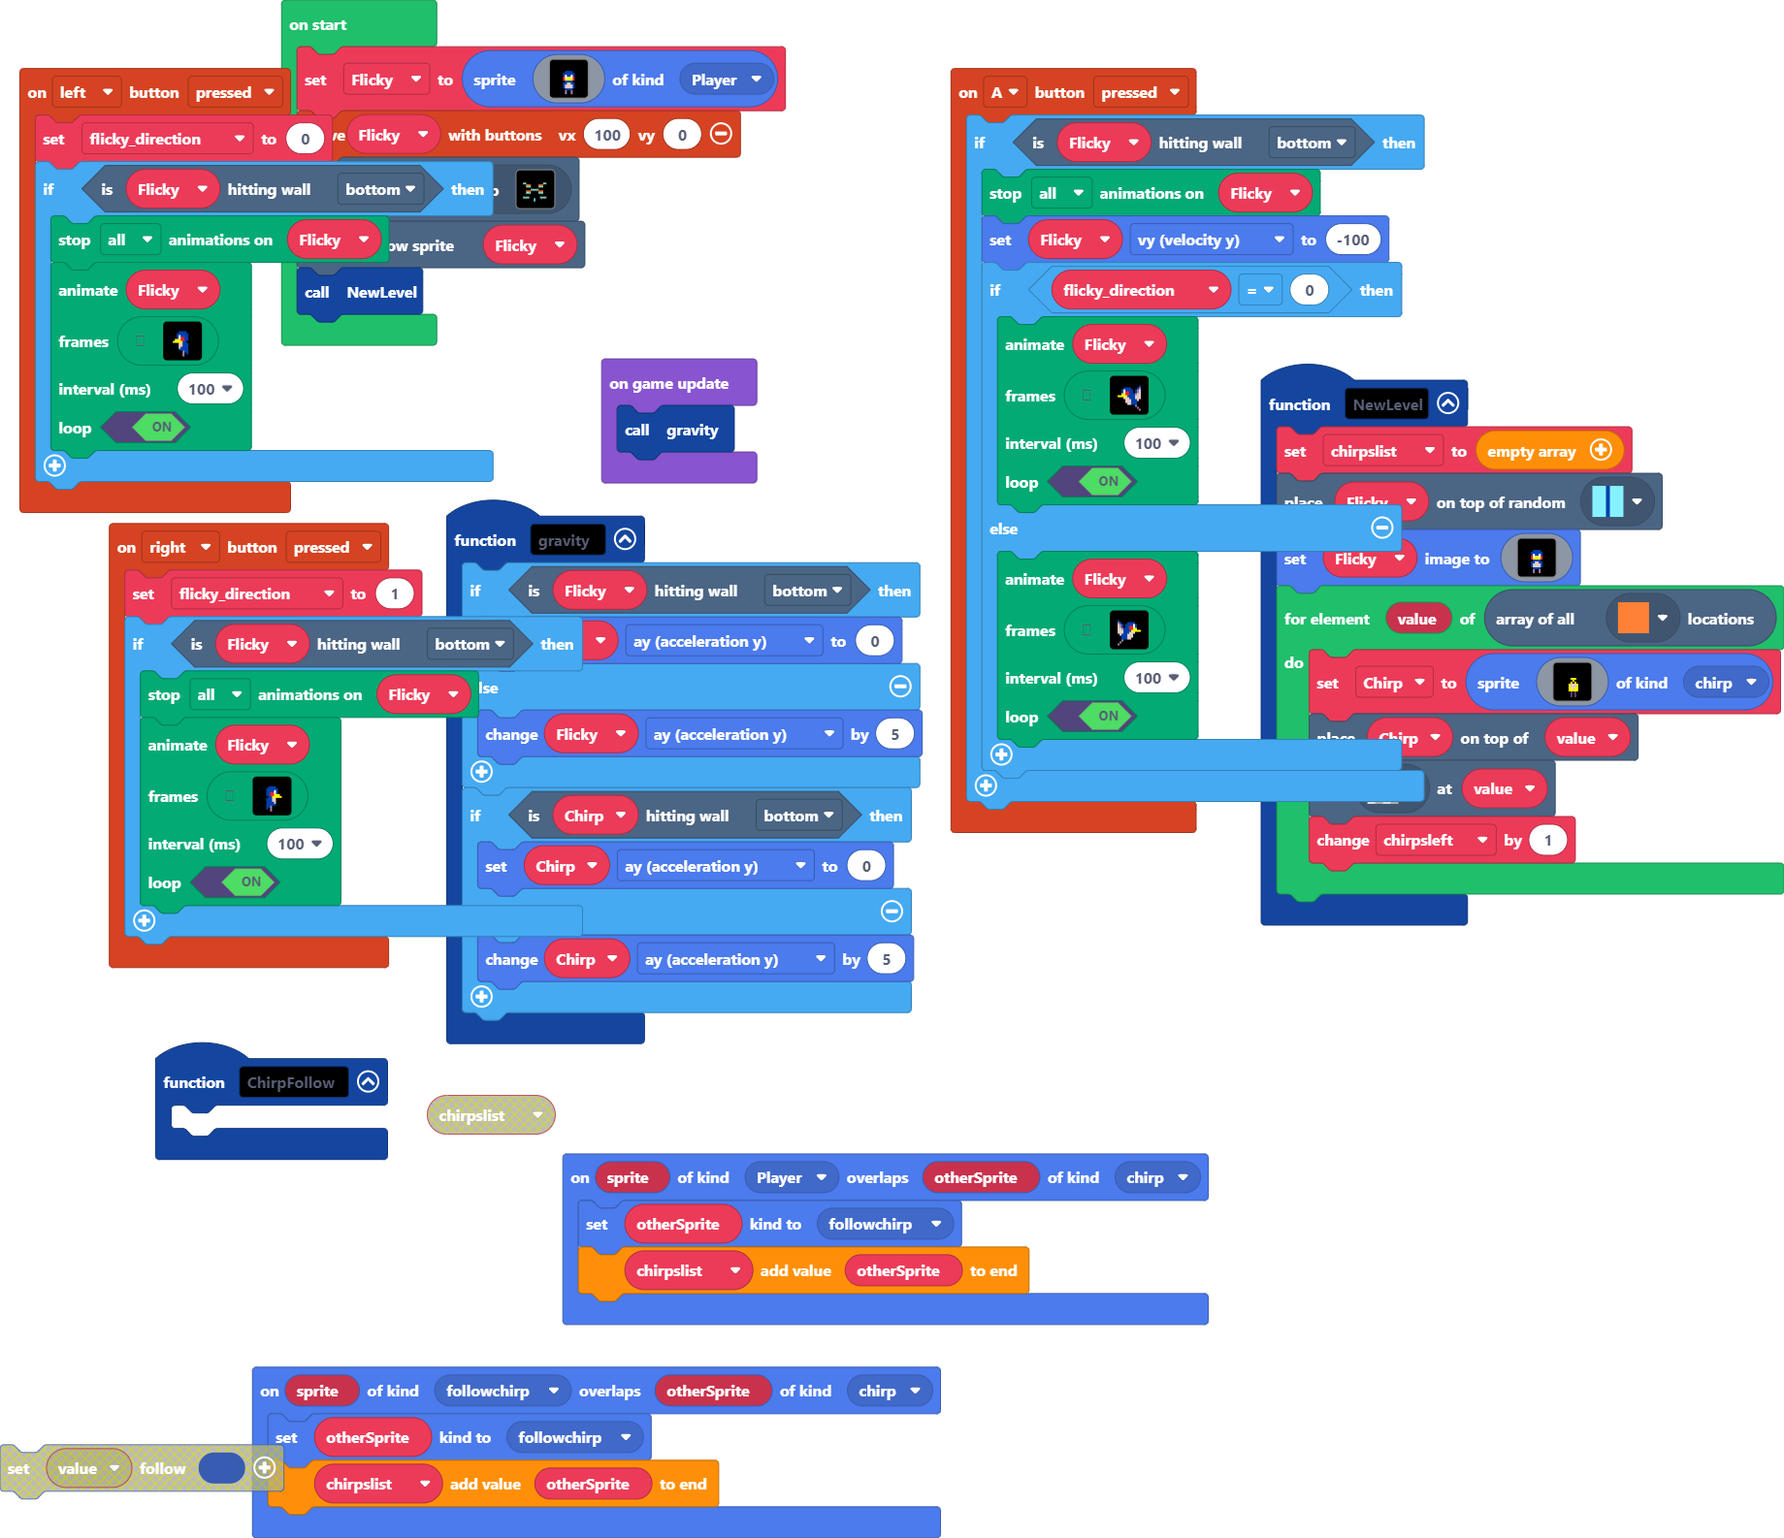
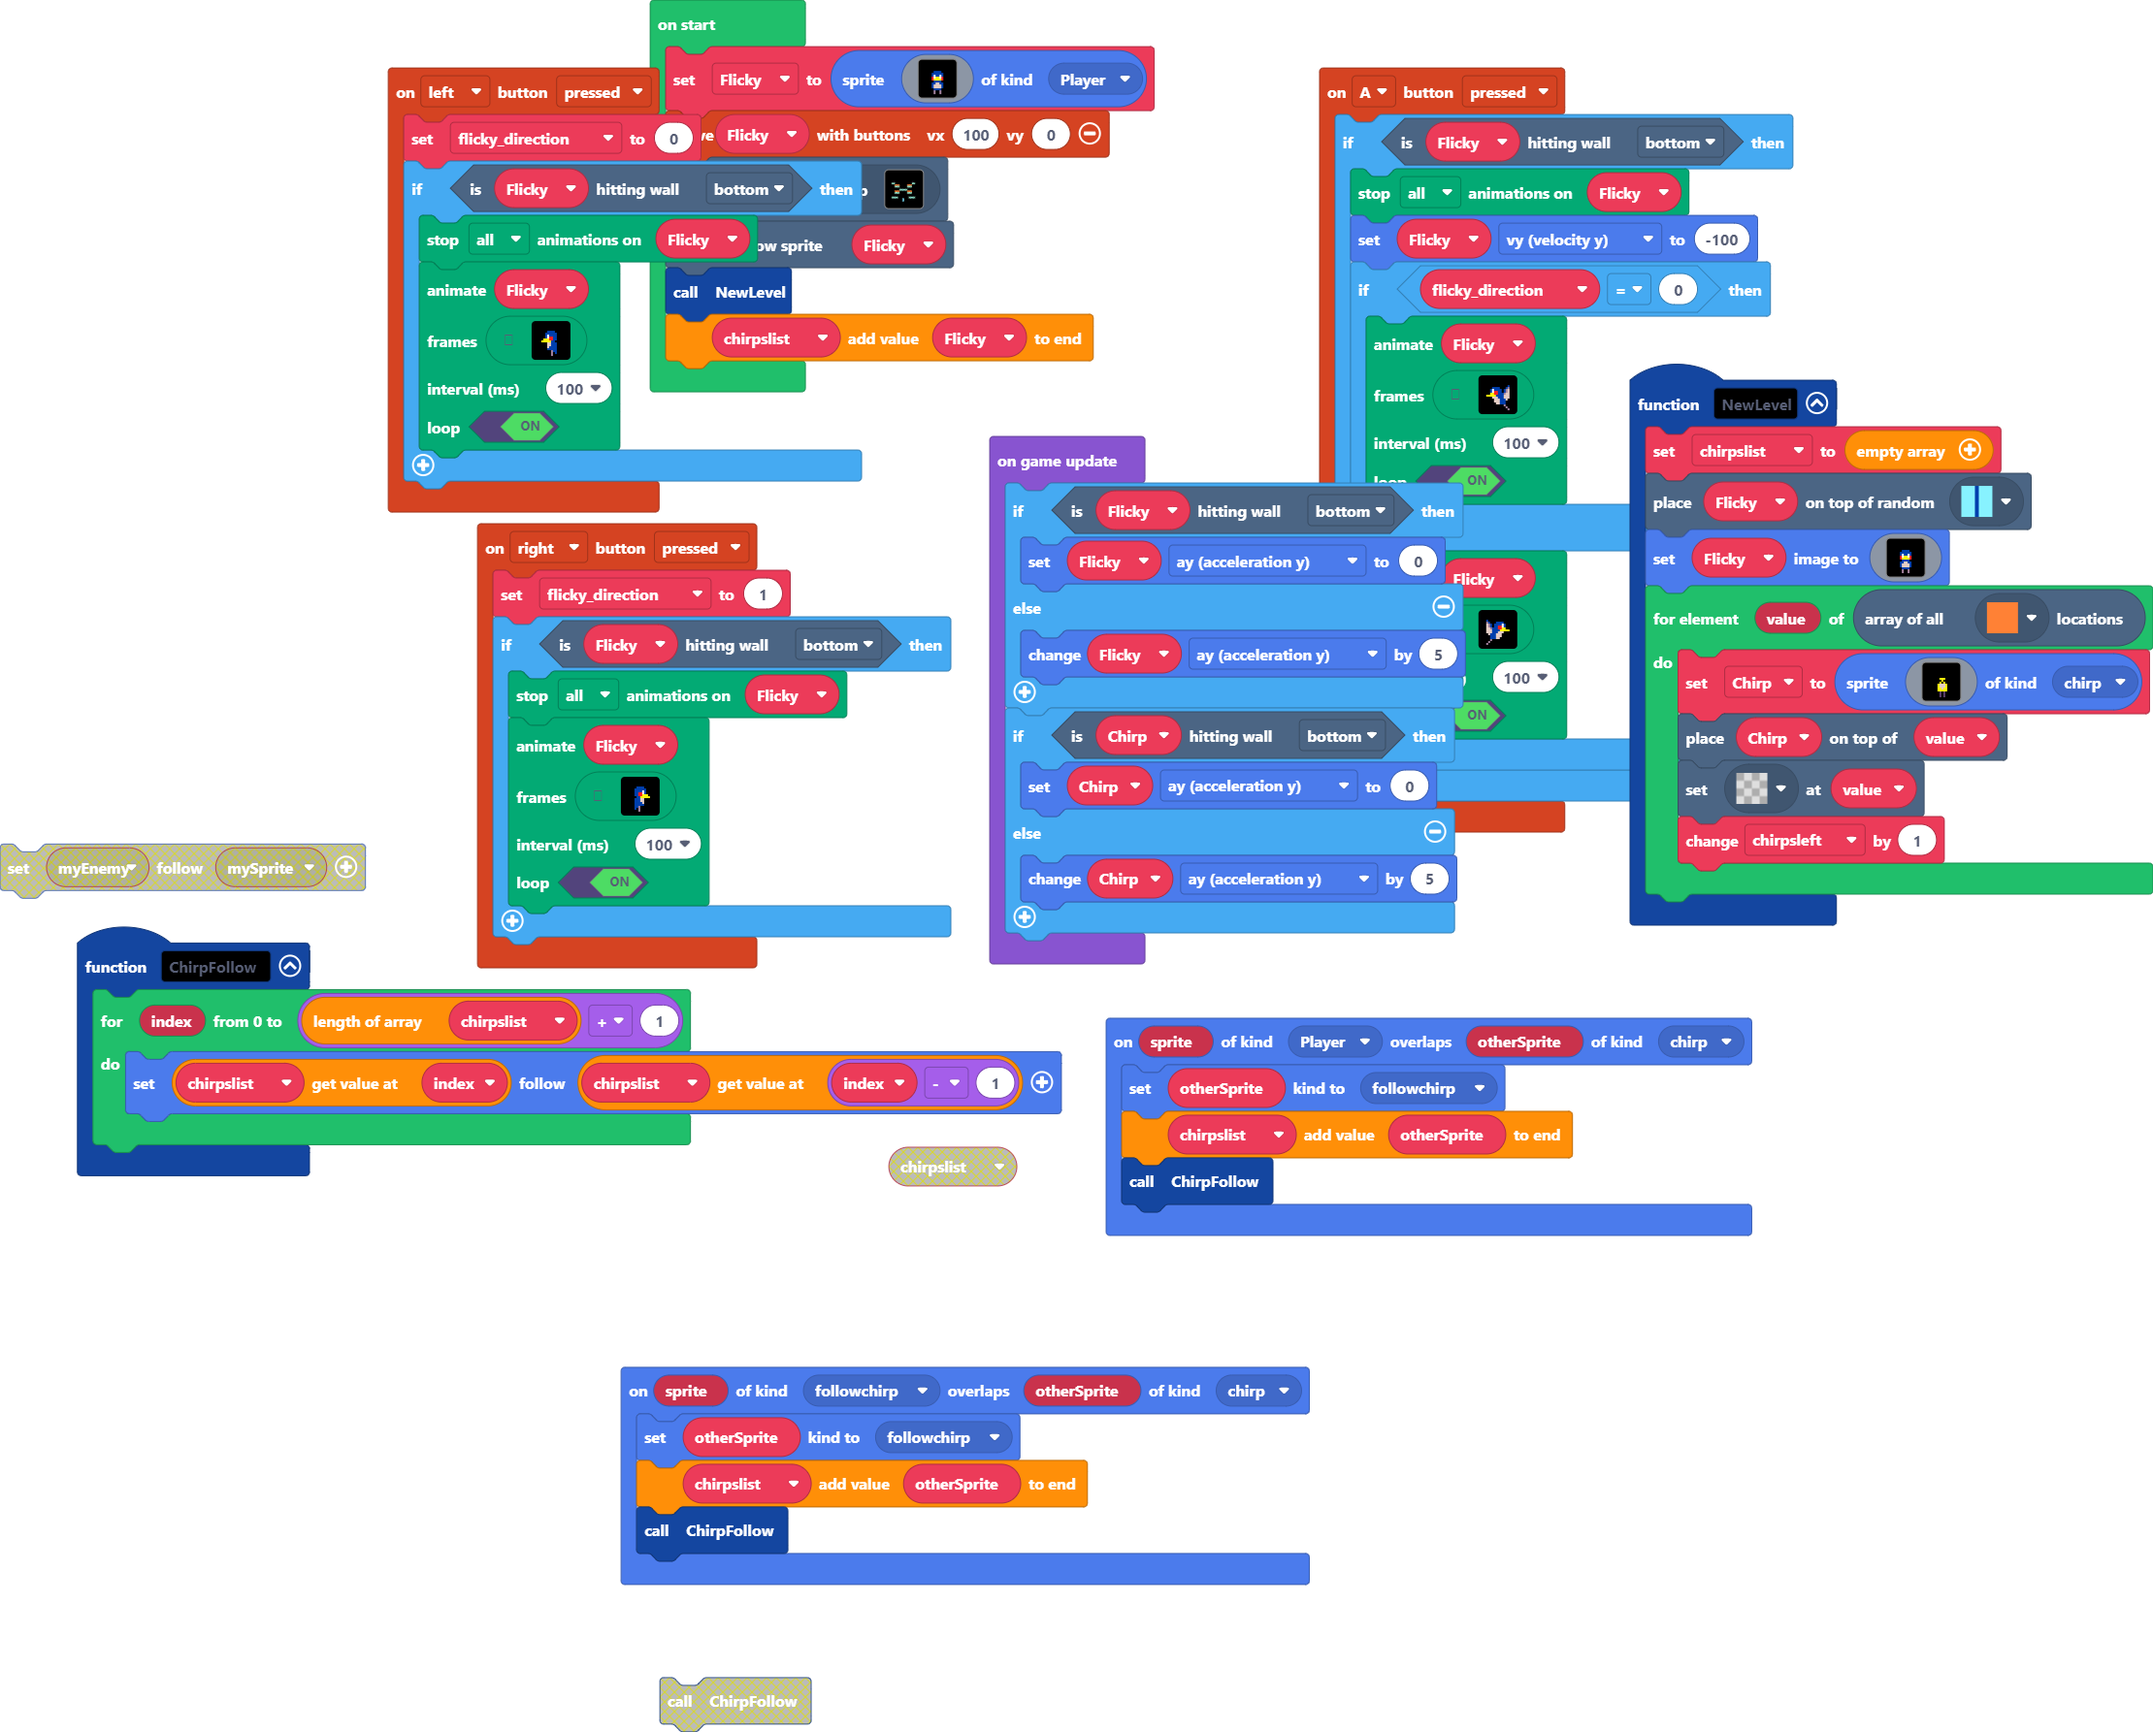
Update main.blocks, main.ts, tilemap.g.jres, tilemap.g.ts

diff --git a/tilemap.g.ts b/tilemap.g.ts
@@ -55,6 +55,29 @@ namespace myTiles {
 ....................
 ....................
 `, [myTiles.transparency16,myTiles.tile1,myTiles.tile2,myTiles.tile3,myTiles.tile4,myTiles.tile5,myTiles.tile6], TileScale.Sixteen);
+            case "level3":
+            case "level3":return tiles.createTilemap(hex`280014000000000000000000000000000000000000000000000000000000000000000000000000000000000000000000000000000000000000000000000000000000000000000000000000000000000000000000000000000000000000000000000000000000000000000000000000000000000000000000000000000000000000000000000000000000000000000000000000000000000000000000000000000000000000000000000000000000000000000000000000000000000000000000000000000000000000000000000000000000000000000000000000000000000000000000000000000000000000000000000000000000000000000000000000000000000000000000000000000000000000000000000000000000000000000000000000000500060000000000000000000000000000000000060005000000000000000000000000000000000001020300000000000000000000000000000000000102030000000000000000000000000000000000000000000000000000000000000000000000000000000000000000000000000000000000000000000000000000000000000001020300000000000000000000000000000000000000000000000000000000000000000000000000000000000000000000000000000000000000000000000000000000000600050505050000000000000006000000000000000505050500060000000000000000000000000001020202020300000000010202020202030000000001020202020300000000000000000000000000000000000000050000000000000000000000000005000000000000000000000000000000000000000000000000000103000000000000000000000001030000000000000000000000000000000000000000000000000000000005000000000000000500000000000000000000000000000000000000000000000000000000000000010300000000000103000000000000000000000000000000000000000000000000000000000000000000000004000000000000000000000000000000000000000000000000000000000000000000000000000000040000000000000000000000000000000000000000`, img`
+........................................
+........................................
+........................................
+........................................
+........................................
+........................................
+........................................
+........................................
+........................................
+........................................
+........................................
+........................................
+........................................
+........................................
+........................................
+........................................
+........................................
+........................................
+........................................
+........................................
+`, [myTiles.transparency16,myTiles.tile1,myTiles.tile2,myTiles.tile3,myTiles.tile4,myTiles.tile5,myTiles.tile6], TileScale.Sixteen);
         }
         return null;
     })

diff --git a/main.ts b/main.ts
@@ -2,20 +2,10 @@ namespace SpriteKind {
     export const chirp = SpriteKind.create()
     export const followchirp = SpriteKind.create()
 }
-function gravity () {
-    if (Flicky.isHittingTile(CollisionDirection.Bottom)) {
-        Flicky.ay = 0
-    } else {
-        Flicky.ay += 5
-    }
-    if (Chirp.isHittingTile(CollisionDirection.Bottom)) {
-        Chirp.ay = 0
-    } else {
-        Chirp.ay += 5
-    }
-}
 function ChirpFollow () {
-	
+    for (let index = 0; index <= chirpslist.length + 1; index++) {
+        chirpslist[index].follow(chirpslist[index - 1])
+    }
 }
 controller.A.onEvent(ControllerButtonEvent.Pressed, function () {
     if (Flicky.isHittingTile(CollisionDirection.Bottom)) {
@@ -53,6 +43,7 @@ controller.left.onEvent(ControllerButtonEvent.Pressed, function () {
 sprites.onOverlap(SpriteKind.Player, SpriteKind.chirp, function (sprite, otherSprite) {
     otherSprite.setKind(SpriteKind.followchirp)
     chirpslist.push(otherSprite)
+    ChirpFollow()
 })
 function NewLevel () {
     chirpslist = []
@@ -80,17 +71,28 @@ controller.right.onEvent(ControllerButtonEvent.Pressed, function () {
 sprites.onOverlap(SpriteKind.followchirp, SpriteKind.chirp, function (sprite, otherSprite) {
     otherSprite.setKind(SpriteKind.followchirp)
     chirpslist.push(otherSprite)
+    ChirpFollow()
 })
 let chirpsleft = 0
-let chirpslist: Sprite[] = []
-let flicky_direction = 0
 let Chirp: Sprite = null
+let flicky_direction = 0
+let chirpslist: Sprite[] = []
 let Flicky: Sprite = null
 Flicky = sprites.create(assets.image`flicky_front`, SpriteKind.Player)
 controller.moveSprite(Flicky, 100, 0)
 tiles.setCurrentTilemap(tilemap`level1`)
 scene.cameraFollowSprite(Flicky)
 NewLevel()
+chirpslist.push(Flicky)
 game.onUpdate(function () {
-    gravity()
+    if (Flicky.isHittingTile(CollisionDirection.Bottom)) {
+        Flicky.ay = 0
+    } else {
+        Flicky.ay += 5
+    }
+    if (Chirp.isHittingTile(CollisionDirection.Bottom)) {
+        Chirp.ay = 0
+    } else {
+        Chirp.ay += 5
+    }
 })
